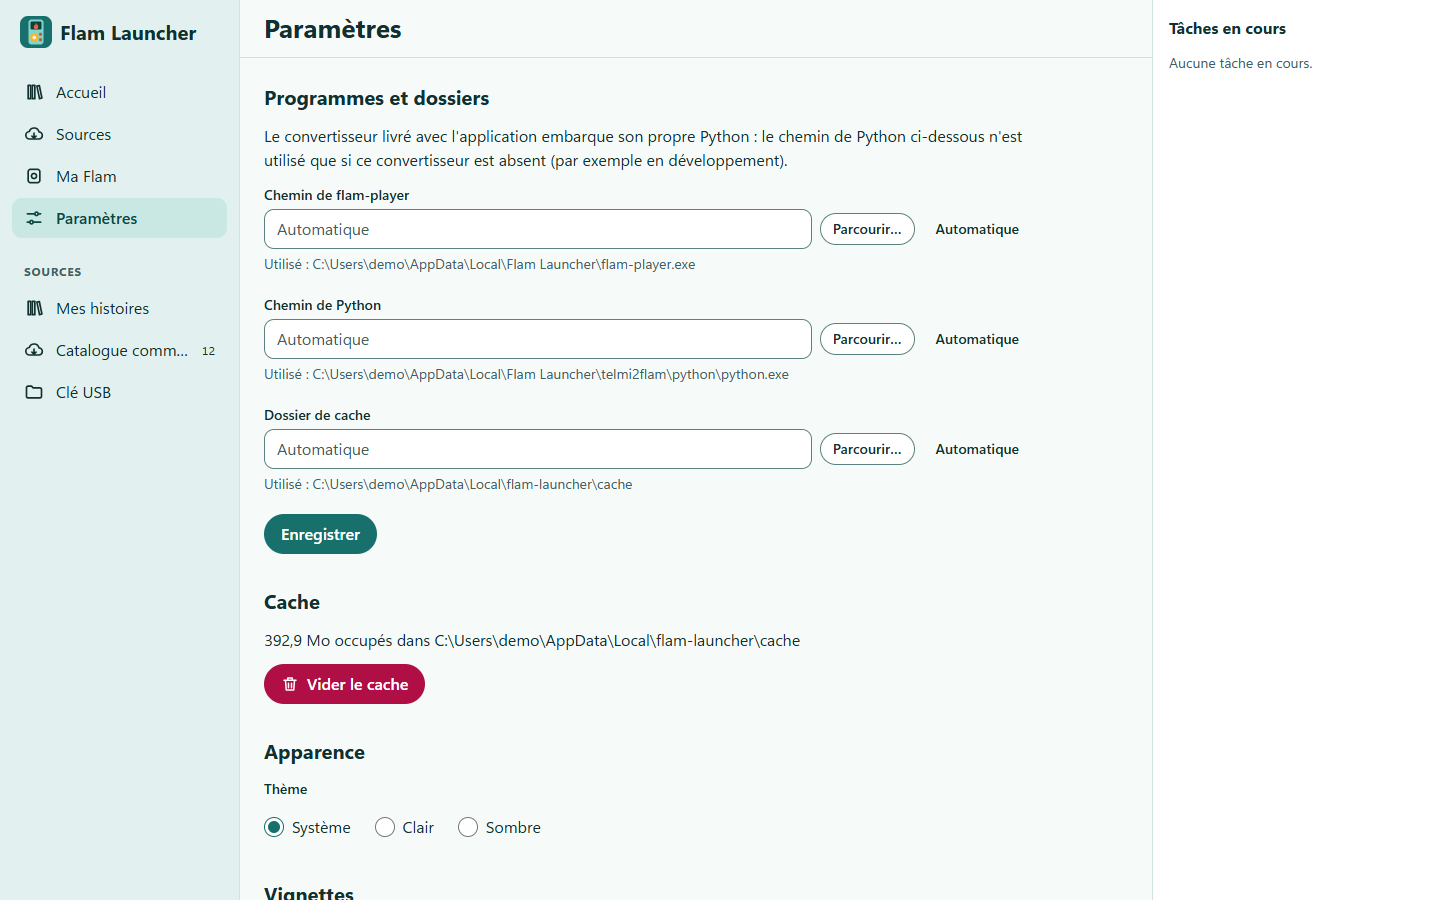
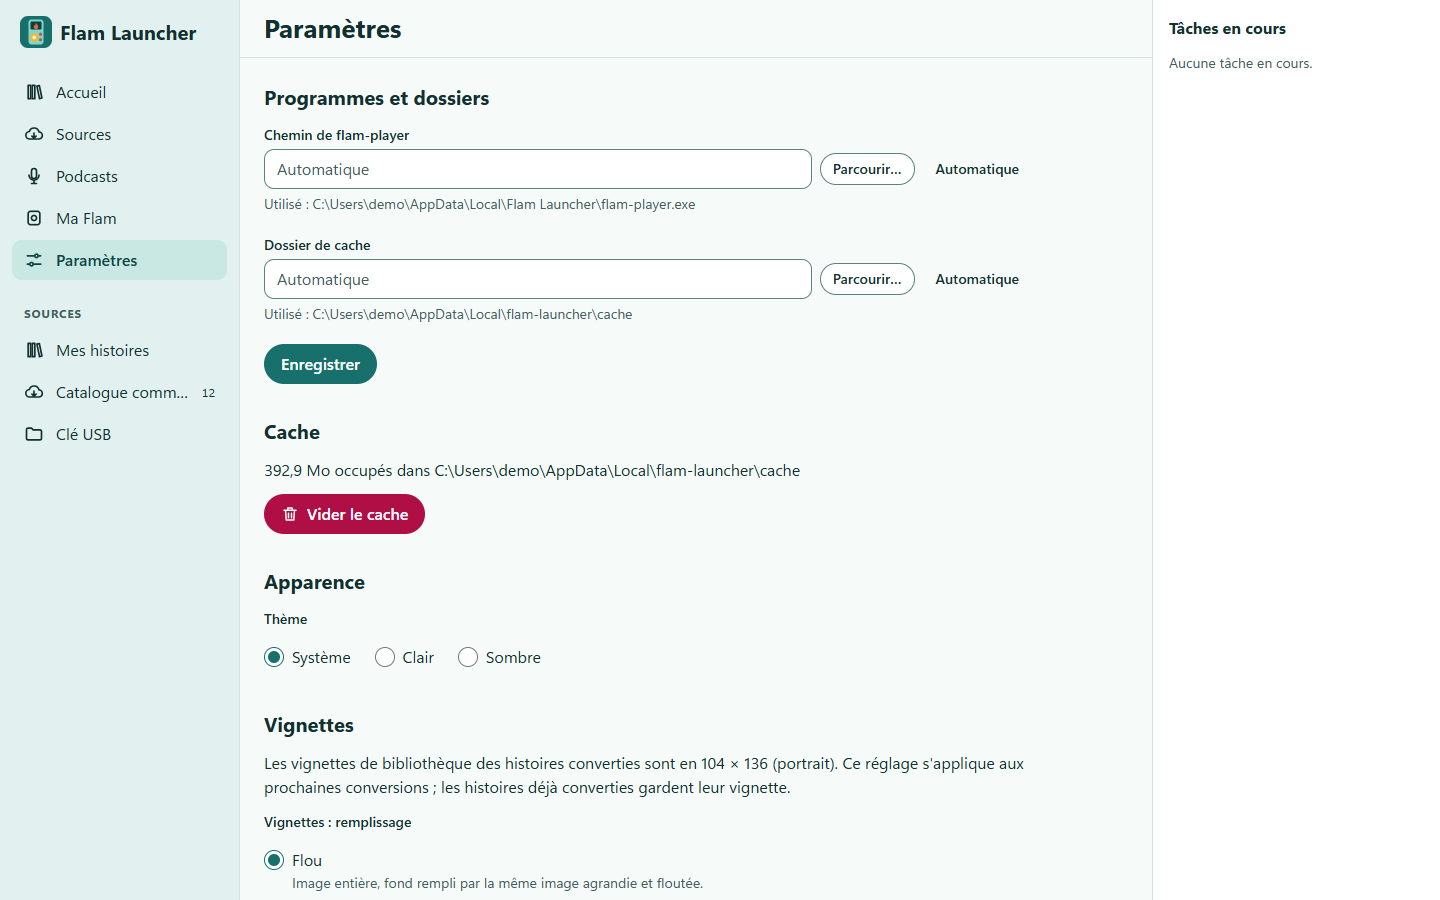
docs : vitrine et documentation après le retrait de Python (#482)
* docs : vitrine et documentation après le retrait de Python (#481)

* docs : suivis de la relecture (#481)

diff --git a/README.md b/README.md
@@ -20,6 +20,7 @@ Flam, les fait jouer sur le PC et les copie sur l'appareil.
 [**Télécharger**](https://github.com/scarlaty/flam-player/releases?q=launcher) ·
 [Démarrage rapide](#démarrage-rapide) ·
 [FAQ](#faq) ·
+[Nouveautés](CHANGELOG.md) ·
 [Contribuer](#contribuer)
 
 </div>
@@ -51,8 +52,9 @@ badge indique si l'histoire a été testée et fonctionne sur la Flam.
 ### Convertir sans ligne de commande
 
 « Télécharger » récupère l'archive TELMI et la convertit au format de la Flam (`.plain.pk`). Le
-convertisseur et son Python sont fournis : rien d'autre à installer. Les tâches s'affichent à
-droite avec leur avancement, et chacune peut être annulée.
+convertisseur est intégré à l'application : rapide, sans aucun programme à installer à côté (ni
+Python, ni bibliothèque d'images). Les tâches s'affichent à droite avec leur avancement, et
+chacune peut être annulée.
 
 <picture>
   <source media="(prefers-color-scheme: dark)" srcset="docs/assets/installation-sombre.png">
@@ -88,8 +90,8 @@ vignettes. Vous pouvez en envoyer depuis « Mes histoires », en retirer, change
 
 ### Sources, réglages et thème sombre
 
-Ajoutez, renommez et ordonnez vos sources. Les paramètres indiquent les programmes utilisés et
-la place occupée par le cache. L'interface suit le thème clair ou sombre de Windows, ou celui
+Ajoutez, renommez et ordonnez vos sources. Les paramètres règlent le chemin de flam-player, le dossier de
+cache (et la place qu'il occupe), le thème et le remplissage des vignettes. L'interface suit le thème clair ou sombre de Windows, ou celui
 que vous choisissez.
 
 <table>
@@ -103,7 +105,7 @@ que vous choisissez.
     <td width="50%">
       <picture>
         <source media="(prefers-color-scheme: dark)" srcset="docs/assets/parametres-sombre.png">
-        <img src="docs/assets/parametres-clair.png" alt="Écran Paramètres : chemins de flam-player et de Python, dossier de cache">
+        <img src="docs/assets/parametres-clair.png" alt="Écran Paramètres : chemin de flam-player, dossier de cache, thème et vignettes">
       </picture>
     </td>
   </tr>
@@ -151,9 +153,10 @@ Du catalogue à la Flam : choisir une histoire, la télécharger, puis l'envoyer
 > « Exécuter quand même ». Le fichier `SHA256SUMS.txt` de la version permet de vérifier le
 > téléchargement.
 
-Tout est inclus : l'application, `flam-player` et le convertisseur avec son Python. WebView2
-est requis ; il est présent sur Windows 11 et sur Windows 10 à jour. Vos sources, paramètres
-et progressions survivent aux mises à jour. Détails, désinstallation et dépannage :
+Tout est inclus : l'application, `flam-player` et le convertisseur (un programme Rust autonome),
+sans Python à installer. WebView2 est requis ; il est présent sur Windows 11 et sur Windows 10
+à jour. Vos sources, paramètres et progressions survivent aux mises à jour. Détails,
+désinstallation et dépannage :
 [apps/flam-launcher/README.md](apps/flam-launcher/README.md#installation-windows).
 
 ## Démarrage rapide
@@ -191,11 +194,15 @@ Détails : [flam-transfert.md](apps/flam-launcher/docs/flam-transfert.md).
 <details>
 <summary><b>Quels formats d'histoires sont acceptés ?</b></summary>
 
-- archives TELMI `.zip` (description `nodes.json`), converties à l'installation ;
+- archives TELMI `.zip` (description `nodes.json`), converties à l'installation par le
+  convertisseur intégré. Il lit les archives ZIP sans compression ou compressées en deflate, et
+  les images PNG, y compris les PNG atypiques (entrelacés, palettes, 16 bits...) ;
 - histoires déjà au format de la Flam : dossiers `.plain` et archives `.plain.pk`, copiées
   telles quelles.
 
-Le format STUdio (`story.json`) n'est pas pris en charge. Une source peut être un catalogue en
+Le format STUdio (`story.json`) n'est pas pris en charge. Les images GIF ou JPEG
+et les ZIP compressés en bzip2, LZMA ou Zstandard ne le sont pas non plus : l'archive est
+refusée avec un message explicite. Une source peut être un catalogue en
 ligne au format Telmi Store, ou un dossier local, qui n'est jamais modifié.
 </details>
 
@@ -244,8 +251,8 @@ et TypeScript). Il s'appuie sur d'autres briques de ce dépôt :
 | Composant | Rôle | Documentation |
 |-----------|------|---------------|
 | `flam-player` | Émulateur du firmware de la Flam (C, LVGL, Lua, SDL2) | [docs/player.md](docs/player.md) |
-| `telmi2flam` | Convertisseur TELMI vers FLAM (Python) | [tools/telmi2flam](tools/telmi2flam/README.md) |
-| `crates/telmi2flam` | Port Rust du convertisseur, en cours | [crates/telmi2flam](crates/telmi2flam/) |
+| `telmi2flam` (Rust) | Convertisseur TELMI vers FLAM livré avec le launcher (version 2.0.0) | [crates/telmi2flam](crates/telmi2flam/) |
+| `tools/telmi2flam` | Version Python d'origine : référence de parité et outils de campagne, plus livrée aux utilisateurs | [tools/telmi2flam](tools/telmi2flam/README.md) |
 | Jeux homebrew | Jeux en Lua pour la Flam | [docs/player.md](docs/player.md#jeux-et-contenus-homebrew) |
 | Skill `flam-homebrew` | Fabriquer un contenu `.plain.pk` avec une IA | [skills/flam-homebrew](skills/flam-homebrew/SKILL.md) |
 | Formats de la Flam | Volume USB, index, chiffrement | [flam-device-format.md](docs/flam-device-format.md), [flam-carrier.md](docs/flam-carrier.md) |

diff --git a/docs/player.md b/docs/player.md
@@ -25,7 +25,7 @@ Pour utiliser Flam Launcher sans rien compiler, voir l'[installation](../README.
 ## Émulateur flam-player
 
 Émulateur de bureau du firmware Flam (Lunii v3), capable d'exécuter les histoires `.plain`
-extraites. Le convertisseur TELMI vers FLAM (`tools/telmi2flam`) a sa
+extraites. Le convertisseur TELMI vers FLAM (`crates/telmi2flam`) a sa
 [propre section](#convertir-une-histoire-telmi).
 
 ### Fonctionnalités
@@ -46,7 +46,7 @@ extraites. Le convertisseur TELMI vers FLAM (`tools/telmi2flam`) a sa
 L'installateur de Flam Launcher (`Flam-Launcher_<version>_x64-setup.exe` dans une pré-version
 publiée, `Flam Launcher_<version>_x64-setup.exe` comme artefact de la CI) installe, **pour
 l'utilisateur courant et sans droits d'administrateur**, l'application, `flam-player.exe` et le
-convertisseur TELMI vers FLAM (Python inclus). Il n'est pas signé : SmartScreen affiche un
+convertisseur TELMI vers FLAM (binaire Rust autonome : ni Python ni Pillow à installer). Il n'est pas signé : SmartScreen affiche un
 avertissement (« Informations complémentaires » puis « Exécuter quand même »). Utilisation,
 sources, dépannage et construction de l'installateur :
 [apps/flam-launcher/README.md](../apps/flam-launcher/README.md).
@@ -56,8 +56,8 @@ sources, dépannage et construction de l'installateur :
 | Dossier | Rôle |
 |---------|------|
 | `src/` | Émulateur (voir [Architecture](#architecture)) |
-| `tools/telmi2flam/` | Convertisseur d'histoires TELMI (`.zip`) vers FLAM (`.plain.pk`) — voir [son README](../tools/telmi2flam/README.md) |
-| `crates/telmi2flam/` | Port Rust du convertisseur (workspace Cargo à la racine) |
+| `crates/telmi2flam/` | Convertisseur d'histoires TELMI (`.zip`) vers FLAM (`.plain.pk`) livré avec le launcher : binaire Rust, version 2.0.0 (workspace Cargo à la racine) |
+| `tools/telmi2flam/` | Version Python d'origine du convertisseur, gardée comme référence de parité, avec ses outils (`validate.py`, `explore.py`, campagne de parité) — voir [son README](../tools/telmi2flam/README.md) |
 | `apps/flam-launcher/` | Surcouche de bureau (Tauri 2 : Rust + React/TypeScript, licence GPL v3) pour parcourir, convertir et lancer des histoires — voir [son README](../apps/flam-launcher/README.md) ; installateur Windows (NSIS, non signé) avec player et convertisseur embarqués |
 | `games/` | Jeux en contenu Lua FLAM (voir [Jeux et contenus homebrew](#jeux-et-contenus-homebrew)) |
 | `skills/flam-homebrew/` | Skill IA pour fabriquer un homebrew `.plain.pk` |
@@ -262,17 +262,26 @@ Format de la Flam elle-même (volume USB, index, chiffrement) :
 
 ## Convertir une histoire TELMI
 
+Flam Launcher embarque le convertisseur : la conversion s'y fait à l'installation d'une
+histoire, sans ligne de commande et sans rien installer d'autre.
+
+Le convertisseur est le binaire Rust `telmi2flam` (`crates/telmi2flam`, version 2.0.0). Pour
+l'utiliser seul, depuis la racine du dépôt (Rust stable requis) :
+
 ```bat
-python tools\telmi2flam\telmi2flam.py "Mon histoire.zip" -o "Mon_histoire.plain.pk"
-python tools\telmi2flam\validate.py "Mon_histoire.plain.pk"
+cargo run --release -p telmi2flam -- "Mon histoire.zip" -o "Mon_histoire.plain.pk"
 ```
 
-Prérequis : python 3 et Pillow. Seul le format TELMI (`nodes.json`) est pris en charge, pas le
-format STUdio (`story.json`). Options (`--plain`, `--selector`, `--keep-size`,
-`--allow-missing`...) et détails : [tools/telmi2flam/README.md](../tools/telmi2flam/README.md).
+Seul le format TELMI (`nodes.json`) est pris en charge, pas le format STUdio (`story.json`).
+Il lit les ZIP sans compression ou en deflate et les images PNG, y compris atypiques ; les
+images GIF ou JPEG et les ZIP compressés en bzip2, LZMA ou Zstandard ne sont pas pris en
+charge : l'archive est refusée avec un message explicite. Les options sont celles de l'ancienne version Python
+(`--plain`, `--selector`, `--keep-size`, `--allow-missing`...) : voir
+[tools/telmi2flam/README.md](../tools/telmi2flam/README.md).
 
-Flam Launcher embarque ce convertisseur (binaire Rust, sans Python) : la conversion s'y fait à
-l'installation d'une histoire, sans ligne de commande.
+Python (3, avec Pillow) ne reste nécessaire que pour les outils de développement de
+`tools/telmi2flam/` : version Python d'origine (référence de parité), `validate.py`, campagne de
+parité sur archives réelles, `explore.py` et tests du convertisseur Python.
 
 ## Jeux et contenus homebrew
 

diff --git a/CHANGELOG.md b/CHANGELOG.md
@@ -1,0 +1,61 @@
+# Journal des changements
+
+Ce fichier suit le format [Keep a Changelog](https://keepachangelog.com/fr/1.1.0/) et décrit les
+changements de **Flam Launcher** visibles par les utilisateurs. Les versions du launcher sont
+publiées sous des étiquettes `launcher-v…` (voir les
+[versions](https://github.com/scarlaty/flam-player/releases?q=launcher)).
+
+## [Non publié]
+
+Changements depuis `launcher-v0.1.0-beta.1`.
+
+### Ajouté
+
+- **Podcasts** : une source « Podcast » (adresse d'un flux RSS) fournit des épisodes. L'écran
+  **Podcasts** permet de les cocher (raccourci « Cocher les 10 derniers épisodes » ; les
+  épisodes explicites ne sont jamais cochés d'office), puis **Composer le pack** les range en
+  catégories (3 niveaux de menus) avec titre, âge, description et couverture. **Créer
+  l'histoire** télécharge et convertit l'audio, et l'histoire arrive dans « Mes histoires ». Un
+  message rappelle à la première création que ces histoires sont réservées à l'usage personnel
+  et familial. Le brouillon du pack est enregistré automatiquement.
+- **Diagnostic copiable** : en cas d'erreur, un panneau permet de copier les informations utiles
+  pour un rapport de bogue.
+- **Audio** : les MP3 qui ne sont pas à 44 100 Hz sont rééchantillonnés à la conversion
+  (un petit ffmpeg est livré avec l'application).
+- **Vitrine** : le README du dépôt présente désormais le launcher, avec captures d'écran,
+  parcours animé, installation et FAQ.
+
+### Modifié
+
+- **Convertisseur intégré, sans Python** : le convertisseur TELMI vers Flam est maintenant un
+  programme Rust autonome (`telmi2flam.exe`, version 2.0.0), livré dans l'installateur. Il est
+  plus rapide, n'exige aucune dépendance et donne des résultats vérifiés identiques à
+  l'ancienne version sur 30 archives réelles. L'installateur ne contient plus ni Python ni
+  Pillow.
+- **Paramètres** : le réglage « chemin de Python » a disparu. Un ancien fichier de réglages qui
+  le contient reste lisible : le champ est simplement ignoré.
+- **Mise à jour** : l'installation d'une version précédente qui livrait Python supprime l'ancien
+  dossier du convertisseur Python.
+- **Formats lus** : archives TELMI en ZIP sans compression ou deflate, images PNG (y compris
+  les PNG atypiques : entrelacés, palettes, 16 bits...). Les images d'autres formats et les ZIP
+  compressés autrement sont refusés avec un message explicite.
+- **Vignettes** : les modes « flou » et « rogner » donnent le même rendu que l'ancien
+  convertisseur.
+
+### Corrigé
+
+- `flam-player` ne montre plus de fenêtre de console au lancement depuis le launcher.
+- L'écran du player se redessine après une réinitialisation du pilote graphique (Direct3D).
+- Sur un firmware 2.x, retirer une histoire ou changer l'ordre est bloqué tant que vous n'avez
+  pas confirmé, et les histoires concernées sont désignées.
+- « Réessayer » rend toujours le focus au titre de l'écran.
+- Divers durcissements du téléchargement et de la lecture de contenus venus d'Internet (adresses
+  refusées, tailles bornées).
+
+### Documentation
+
+- README, installation et développement mis à jour : le convertisseur est présenté comme un
+  programme intégré. Python 3 reste utile uniquement aux outils de campagne et de parité du
+  dépôt (`tools/telmi2flam/`), pas aux utilisateurs.
+
+[Non publié]: https://github.com/scarlaty/flam-player/compare/launcher-v0.1.0-beta.1...HEAD

diff --git a/apps/flam-launcher/README.md b/apps/flam-launcher/README.md
@@ -32,8 +32,8 @@ installées de « Mes histoires ») sous `%LOCALAPPDATA%` (« Paramètres » →
 emplacement).
 
 **Désinstallation et données** : la désinstallation retire le dossier d'installation seulement.
-Les données (`%APPDATA%lam-launcher` : sources, paramètres, sauvegardes ; et
-`%LOCALAPPDATA%lam-launcher` : cache et histoires installées) sont **conservées**, y compris si
+Les données (`%APPDATA%\flam-launcher` : sources, paramètres, sauvegardes ; et
+`%LOCALAPPDATA%\flam-launcher` : cache et histoires installées) sont **conservées**, y compris si
 l'on coche « supprimer les données de l'application » du désinstallateur, qui ne les connaît pas :
 pour tout effacer, supprimer ces deux dossiers à la main.
 
@@ -113,6 +113,11 @@ Testeurs de la bêta : [docs/guide-testeur.md](docs/guide-testeur.md). Formats e
 
 Rust stable (MSVC), Visual Studio 2022 avec les outils C++ x64, WebView2, Node 24+ et npm.
 
+Python 3 n'est **pas** nécessaire pour utiliser, construire ou tester le launcher : l'installation
+n'en contient plus (#138). Il ne sert qu'aux outils de campagne et de parité de
+`tools/telmi2flam/` (oracle Python de #135) et aux générateurs de vecteurs de test de
+`crates/telmi2flam/tests/vectors/`. Le convertisseur se développe dans `crates/telmi2flam`.
+
 Le launcher est membre d'un **workspace Cargo** dont le `Cargo.toml` est à la racine du dépôt (avec
 `crates/telmi2flam`) : `Cargo.lock` et `target/` sont à la racine, pas dans `src-tauri/`. Les commandes
 `cargo` se lancent toujours depuis `src-tauri/` (ou avec `-p flam-launcher`) ; le profil `release` est
@@ -190,8 +195,8 @@ fermeture de stdin). Environ 1,5 Mo sur disque.
    ```
 
    L'annulation du test exige un binaire de debug ou la feature `test-hooks`
-   (`TELMI2FLAM_TEST_FAULT=wait:zip:end`). L'archive de test se génère avec `make_story.py`
-   (issue #46) ; ne jamais committer de contenu sous licence.
+   (`TELMI2FLAM_TEST_FAULT=wait:zip:end`). L'archive de test est synthétique, à fabriquer
+   localement (issue #46) ; ne jamais committer de contenu sous licence.
 
 **Plus de Python dans l'installation** : le réglage `python_path` n'existe plus (#139) et
 l'écran Paramètres ne propose plus de chemin de Python. Un ancien `settings.json` qui porte

diff --git a/AGENT.md b/AGENT.md
@@ -166,7 +166,7 @@ tests/
   audio/                   — Audio reel (flam-test-audio) : seek, pause, reouverture
   e2e/e2e_telmi.py         — Bout en bout TELMI -> telmi2flam -> flam-player
 tools/telmi2flam/
-  telmi2flam.py            — Convertisseur TELMI -> .plain.pk (python 3 + Pillow)
+  telmi2flam.py            — Convertisseur TELMI -> .plain.pk, version Python de reference (python 3 + Pillow) ; le convertisseur livre est crates/telmi2flam (Rust)
   validate.py              — Verification d'un .plain.pk ou d'un dossier .plain
   explore.py               — Exploration automatique d'une histoire dans flam-player sans fenetre
   engine/                  — Moteur d'histoire Lua embarque (story.lua, main.lua)
@@ -336,8 +336,8 @@ CRLF : `git add --renormalize tools/telmi2flam/engine/`. L'ancien `apps/flam-lau
 est ignore mais inutile : le supprimer.
 
 Installateur Windows (NSIS, par utilisateur, non signe) : `npm run build:installer` (dans
-`apps/flam-launcher/`, depuis un environnement VS 2022 x64) = `build:converter` (Python + Pillow +
-telmi2flam dans `build/telmi2flam/`) + `build:player` (`flam-player.exe` Release et `SDL2.dll` dans
+`apps/flam-launcher/`, depuis un environnement VS 2022 x64) = `build:converter` (binaire Rust `telmi2flam.exe`, sans Python,
+dans `build/telmi2flam/`) + `build:player` (`flam-player.exe` Release et `SDL2.dll` dans
 `build/player/`, compiles dans `build/release/` : ne pas confondre avec le `build/` Debug de
 `do_build.bat`) + `tauri build --config src-tauri/tauri.bundle.conf.json`. Test de bout en bout du
 backend reel (catalogue HTTP factice -> installation -> player en pilotes SDL `dummy` -> retour) :

diff --git a/CONTRIBUTING.md b/CONTRIBUTING.md
@@ -181,7 +181,8 @@ Règles propres aux briques sur lesquelles repose le launcher (documentation :
 
 - `test_run.bat` (player, moteur, convertisseur) au vert pour toute modification de code hors
   `apps/flam-launcher/`.
-- `tools/telmi2flam` : `python -m unittest discover -s tools/telmi2flam/tests` au vert ;
+- `tools/telmi2flam` (version Python d'origine, plus livrée : référence de parité et
+  outils de campagne ; Python 3 requis pour ce volet seulement) : `python -m unittest discover -s tools/telmi2flam/tests` au vert ;
   toute correction de compatibilité est accompagnée d'un test de non-régression.
 - `crates/telmi2flam` (port Rust du convertisseur, workspace Cargo à la racine) :
   `cargo test -p telmi2flam`, `cargo fmt --check` et `cargo clippy -p telmi2flam -- -D warnings`.
